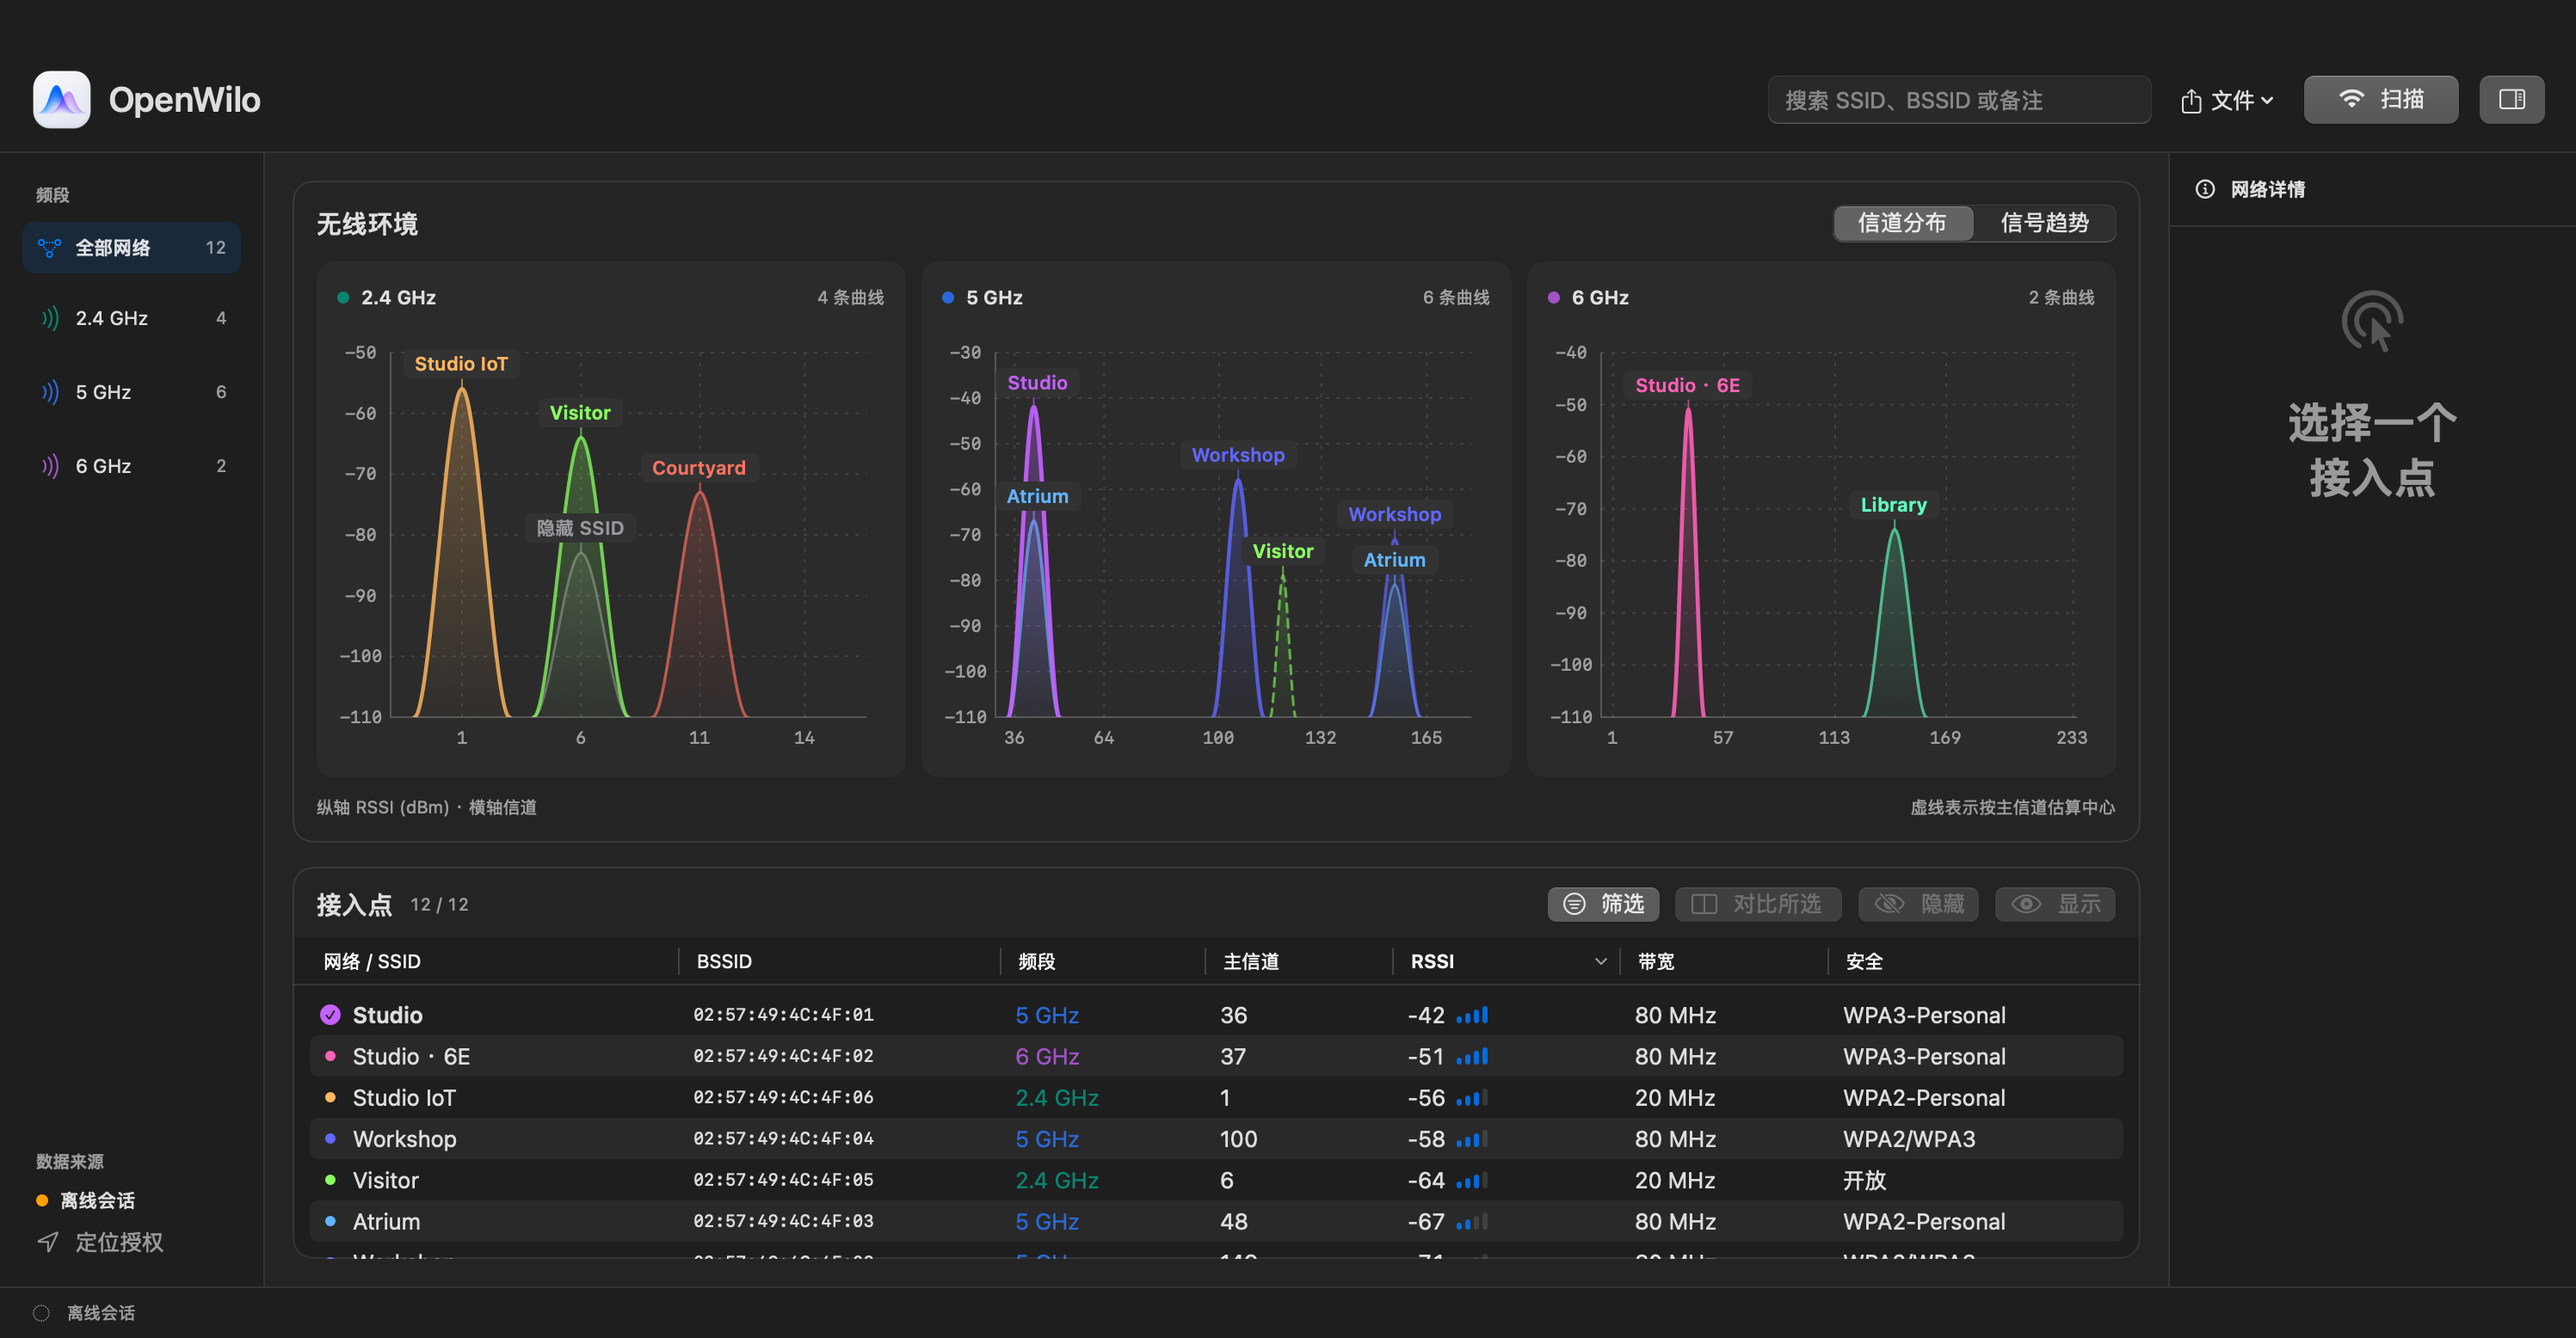
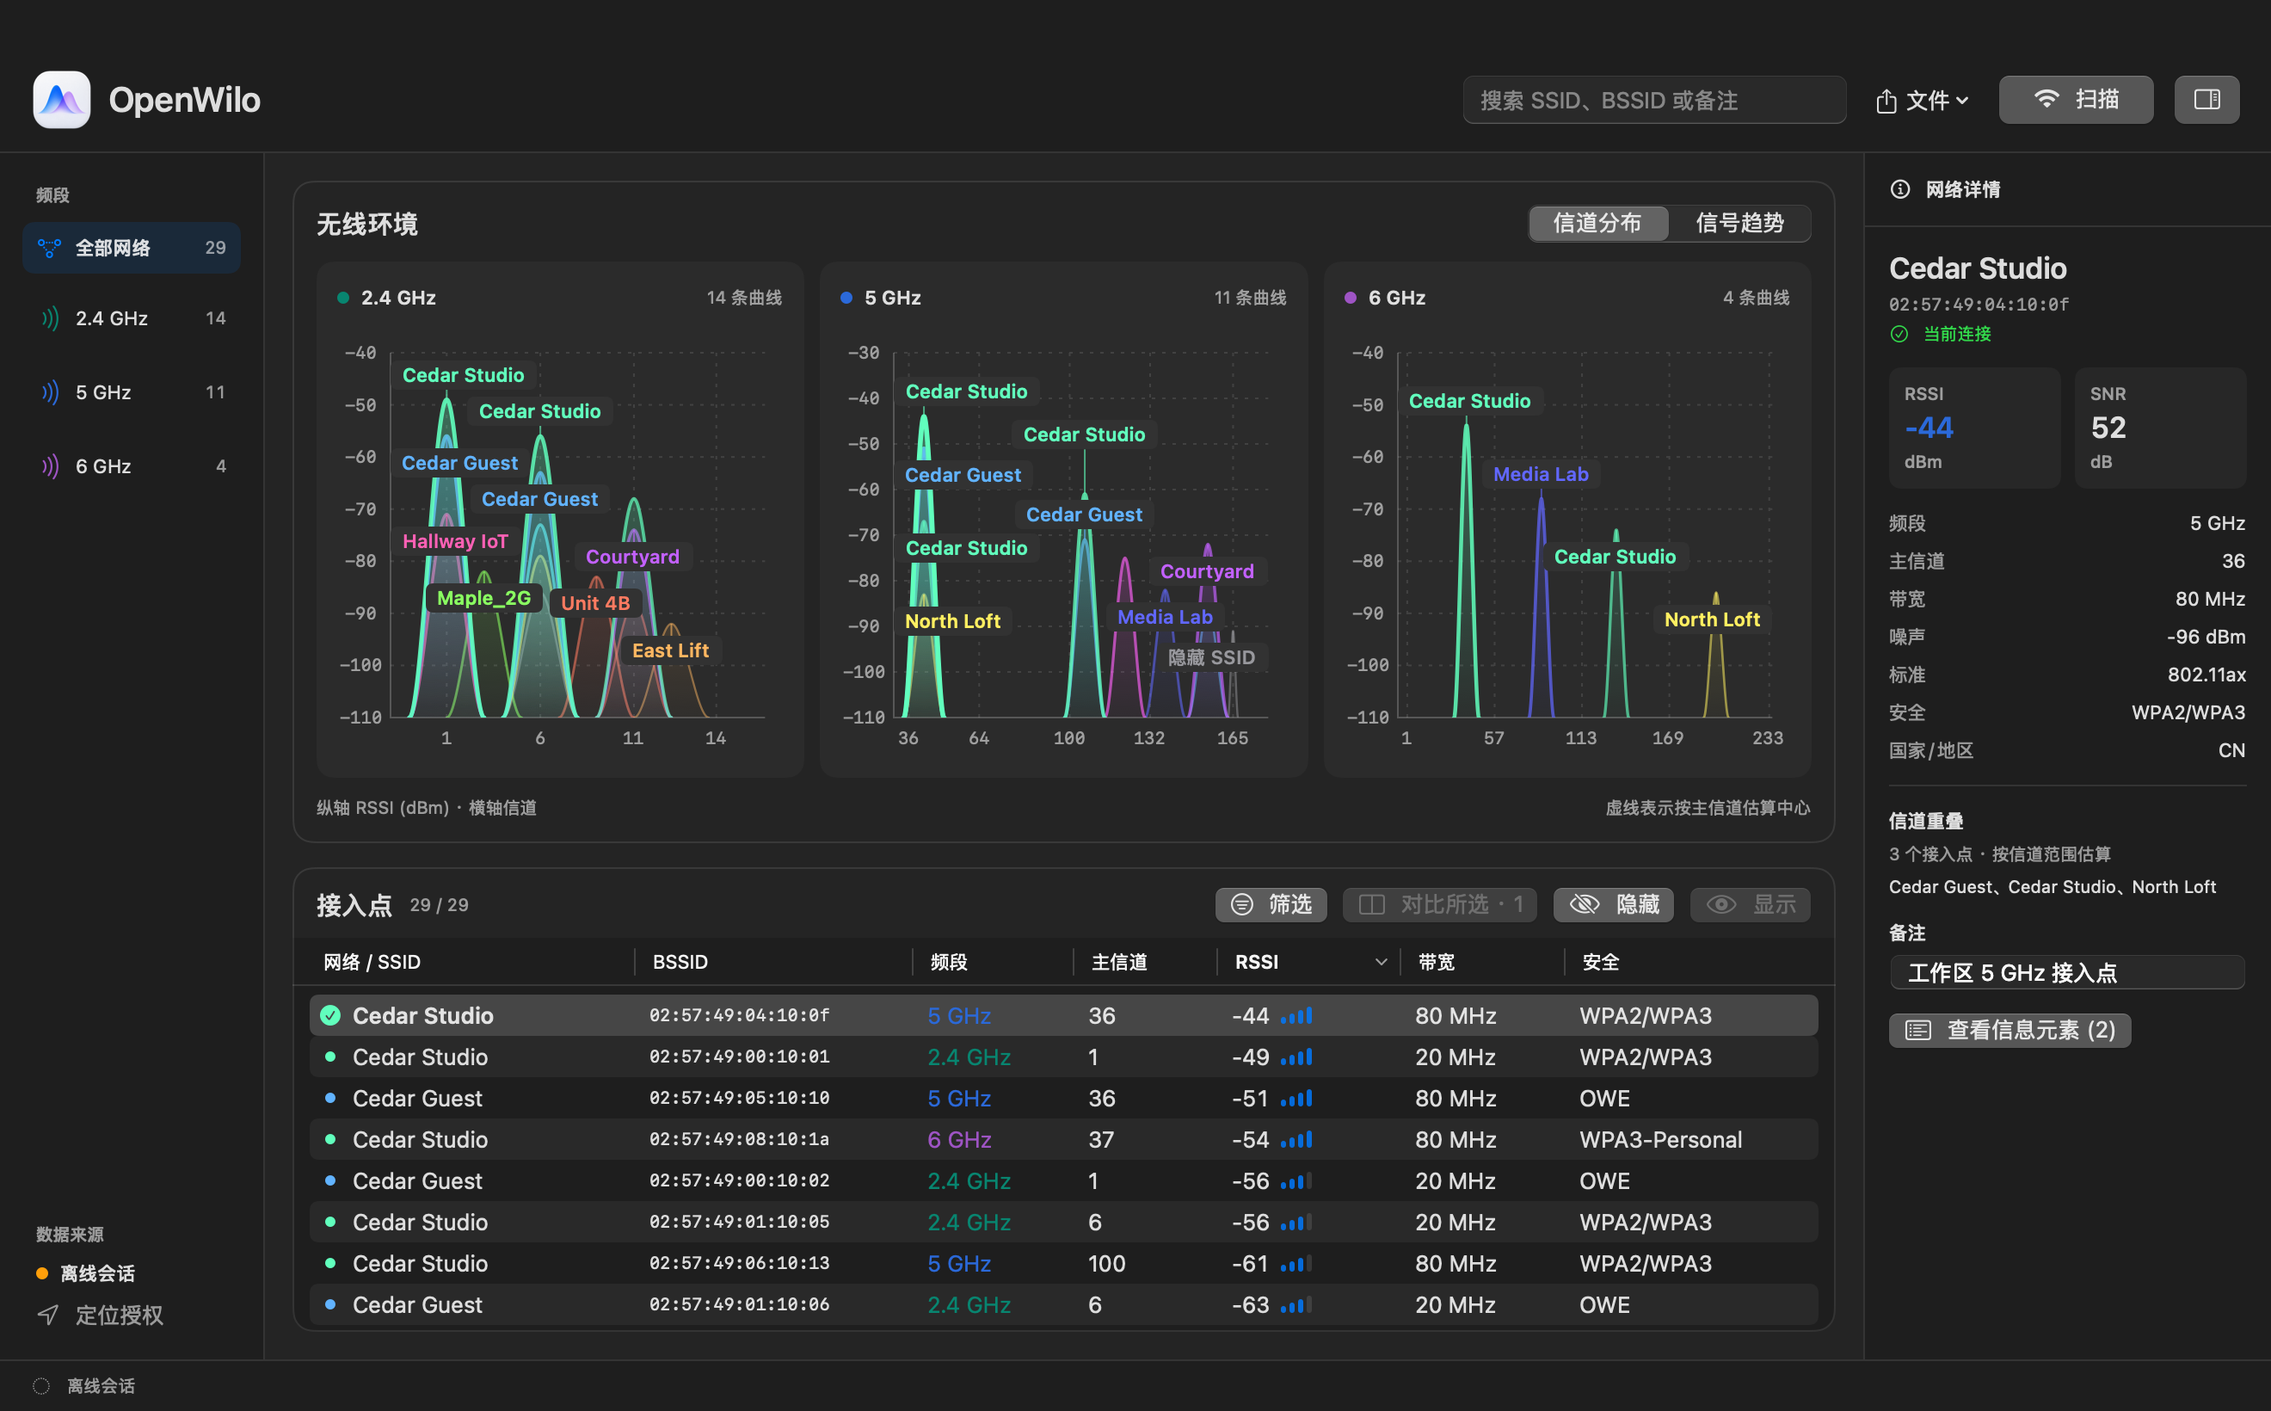
Show a busier Wi-Fi environment in README screenshots

diff --git a/README.md b/README.md
@@ -8,9 +8,11 @@ OpenWilo scans nearby Wi-Fi access points and shows where their channels overlap
 
 ## Screenshots
 
-Example views with fictional Wi-Fi networks.
+Example views from a fictional scan with 29 access points, including 14 on 2.4 GHz.
 
 ![Tri-band channel charts and access point details](docs/screenshots/channels.png)
+
+![Full-width 2.4 GHz chart showing overlapping access points](docs/screenshots/channels-2.4ghz.png)
 
 ![RSSI history for three selected access points](docs/screenshots/signal-history.png)
 
